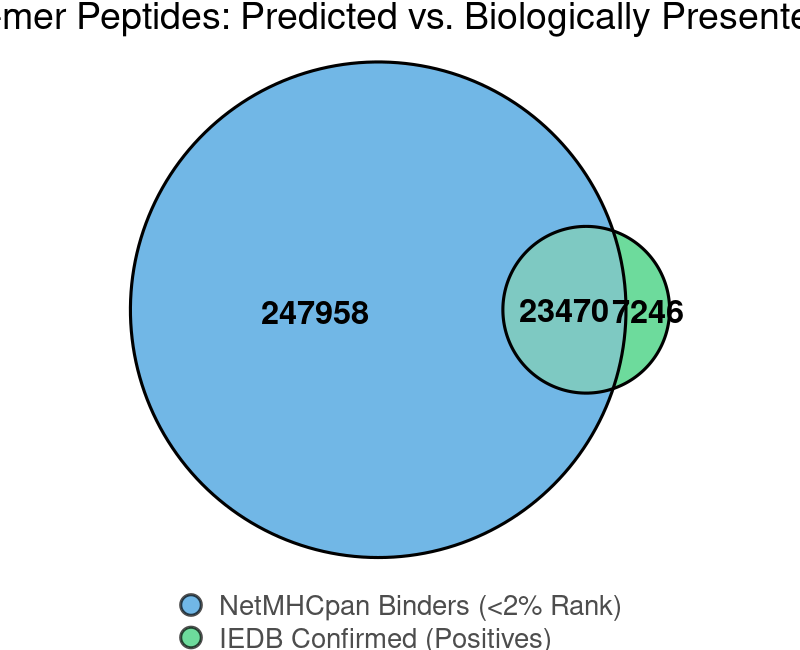
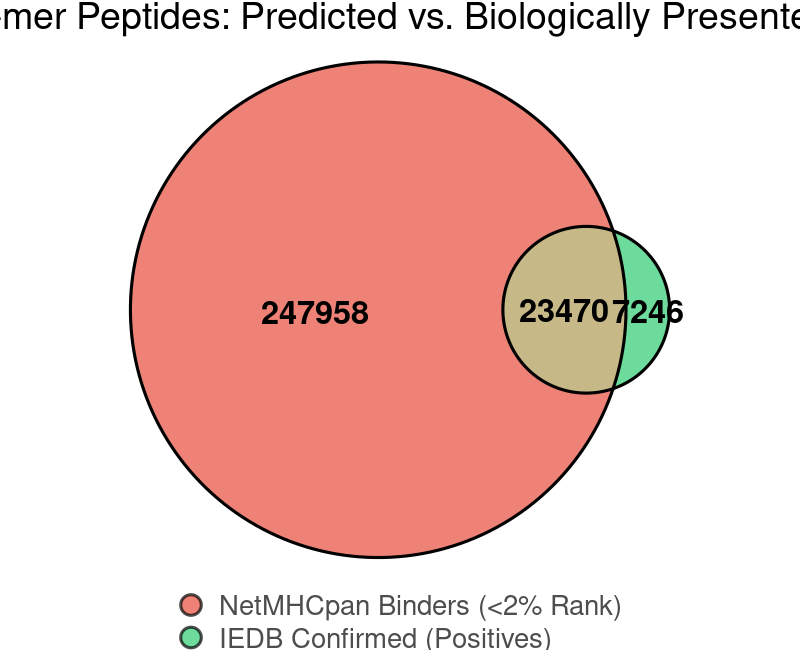
add flowchart for part of negative data generation and update sankey neg plot colors to match confusion matrix

diff --git a/results/sankey_positives_polished.html b/results/sankey_positives_polished.html
@@ -1598,9 +1598,9 @@ this._y1=this._y2,this._y2=n}};var _w=function t(n){function e(t){return new qc(
 </head>
 <body style="background-color: white;">
 <div id="htmlwidget_container">
-  <div class="sankeyNetwork html-widget html-fill-item" id="htmlwidget-bb155dd7a421a16671cf" style="width:960px;height:500px;"></div>
+  <div class="sankeyNetwork html-widget html-fill-item" id="htmlwidget-30d1fca5d589de8aaf99" style="width:960px;height:500px;"></div>
 </div>
-<script type="application/json" data-for="htmlwidget-bb155dd7a421a16671cf">{"x":{"links":{"source":[0,0,2,2,4,4,6,6,8,8],"target":[1,2,3,4,5,6,7,8,9,10],"value":[123531,76850,15138,61712,30975,30737,21,30716,7246,23470],"group":["discard","keep","discard","keep","discard","keep","discard","keep","discard","keep"]},"nodes":{"name":["Raw Assays: 200,381","123,531","Unique Peptides: 76,850","PTMs: 15,138","61,712","Non-9-mers: 30,975","30,737","Missing UniProt Fasta: 21","30,716","Non-binders: 7,246","9-mer Binders (TP): 23,470"],"group":["raw","discard","keep","discard","keep","discard","keep","discard","keep","discard","keep"]},"options":{"NodeID":"name","NodeGroup":"group","LinkGroup":"group","colourScale":"d3.scaleOrdinal()\n  .domain([\"keep\", \"discard\", \"raw\"])\n  .range([\"#2ecc71\", \"#e0e0e0\", \"#cccccc\"]);","fontSize":16,"fontFamily":"Arial","nodeWidth":20,"nodePadding":25,"units":"","margin":{"top":null,"right":null,"bottom":null,"left":null,"t":20,"r":20,"b":20,"l":20},"iterations":0,"sinksRight":false}},"evals":[],"jsHooks":[]}</script>
-<script type="application/htmlwidget-sizing" data-for="htmlwidget-bb155dd7a421a16671cf">{"viewer":{"width":450,"height":350,"padding":10,"fill":true},"browser":{"width":960,"height":500,"padding":10,"fill":true}}</script>
+<script type="application/json" data-for="htmlwidget-30d1fca5d589de8aaf99">{"x":{"links":{"source":[0,0,2,2,4,4,6,6,8,8],"target":[1,2,3,4,5,6,7,8,9,10],"value":[123531,76850,15138,61712,30975,30737,21,30716,7246,23470],"group":["discard","keep","discard","keep","discard","keep","discard","keep","discard","keep"]},"nodes":{"name":["Raw Assays: 200,381","123,531","Unique Peptides: 76,850","PTMs: 15,138","61,712","Non-9-mers: 30,975","30,737","Missing UniProt Fasta: 21","30,716","Non-binders: 7,246","9-mer Binders (TP): 23,470"],"group":["raw","discard","keep","discard","keep","discard","keep","discard","keep","discard","keep"]},"options":{"NodeID":"name","NodeGroup":"group","LinkGroup":"group","colourScale":"d3.scaleOrdinal()\n  .domain([\"keep\", \"discard\", \"raw\"])\n  .range([\"#2ecc71\", \"#e0e0e0\", \"#cccccc\"]);","fontSize":16,"fontFamily":"Arial","nodeWidth":20,"nodePadding":25,"units":"","margin":{"top":null,"right":null,"bottom":null,"left":null,"t":20,"r":20,"b":20,"l":20},"iterations":0,"sinksRight":false}},"evals":[],"jsHooks":[]}</script>
+<script type="application/htmlwidget-sizing" data-for="htmlwidget-30d1fca5d589de8aaf99">{"viewer":{"width":450,"height":350,"padding":10,"fill":true},"browser":{"width":960,"height":500,"padding":10,"fill":true}}</script>
 </body>
 </html>

diff --git a/results/sankey_negatives_polished.html b/results/sankey_negatives_polished.html
@@ -1598,9 +1598,9 @@ this._y1=this._y2,this._y2=n}};var _w=function t(n){function e(t){return new qc(
 </head>
 <body style="background-color: white;">
 <div id="htmlwidget_container">
-  <div class="sankeyNetwork html-widget html-fill-item" id="htmlwidget-8667a4e4e21030639ea7" style="width:960px;height:500px;"></div>
+  <div class="sankeyNetwork html-widget html-fill-item" id="htmlwidget-c771a511cd5d48ec925f" style="width:960px;height:500px;"></div>
 </div>
-<script type="application/json" data-for="htmlwidget-8667a4e4e21030639ea7">{"x":{"links":{"source":[0,0,2,2],"target":[1,2,3,4],"value":[23470,247958,218327,29631],"group":["discard","keep","discard","keep"]},"nodes":{"name":["Predicted Binders: 271,428","Overlap (IEDB): 23,470","Unconfirmed: 247,958","Affinity Bias: 218,327","Rank-Matched (TN): 29,631"],"group":["raw","discard","keep","discard","keep"]},"options":{"NodeID":"name","NodeGroup":"group","LinkGroup":"group","colourScale":"d3.scaleOrdinal()\n  .domain([\"keep\", \"discard\", \"raw\"])\n  .range([\"#3498db\", \"#e0e0e0\", \"#cccccc\"]);","fontSize":16,"fontFamily":"Arial","nodeWidth":20,"nodePadding":25,"units":"","margin":{"top":null,"right":null,"bottom":null,"left":null,"t":20,"r":20,"b":20,"l":20},"iterations":0,"sinksRight":false}},"evals":[],"jsHooks":[]}</script>
-<script type="application/htmlwidget-sizing" data-for="htmlwidget-8667a4e4e21030639ea7">{"viewer":{"width":450,"height":350,"padding":10,"fill":true},"browser":{"width":960,"height":500,"padding":10,"fill":true}}</script>
+<script type="application/json" data-for="htmlwidget-c771a511cd5d48ec925f">{"x":{"links":{"source":[0,0,2,2],"target":[1,2,3,4],"value":[23470,247958,218327,29631],"group":["discard","keep","discard","keep"]},"nodes":{"name":["Predicted Binders: 271,428","Overlap (IEDB): 23,470","Unconfirmed: 247,958","Affinity Bias: 218,327","Rank-Matched (TN): 29,631"],"group":["raw","discard","keep","discard","keep"]},"options":{"NodeID":"name","NodeGroup":"group","LinkGroup":"group","colourScale":"d3.scaleOrdinal()\n  .domain([\"keep\", \"discard\", \"raw\"])\n  .range([\"#e74c3c\", \"#e0e0e0\", \"#cccccc\"]);","fontSize":16,"fontFamily":"Arial","nodeWidth":20,"nodePadding":25,"units":"","margin":{"top":null,"right":null,"bottom":null,"left":null,"t":20,"r":20,"b":20,"l":20},"iterations":0,"sinksRight":false}},"evals":[],"jsHooks":[]}</script>
+<script type="application/htmlwidget-sizing" data-for="htmlwidget-c771a511cd5d48ec925f">{"viewer":{"width":450,"height":350,"padding":10,"fill":true},"browser":{"width":960,"height":500,"padding":10,"fill":true}}</script>
 </body>
 </html>
